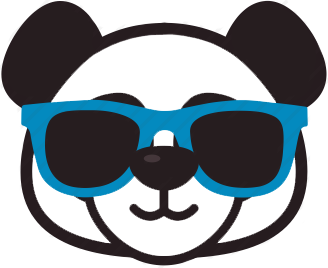
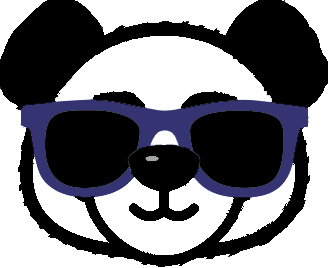
panda dark

diff --git a/styles/Home.module.css b/styles/Home.module.css
@@ -361,6 +361,7 @@
     margin-top: 18px;
     margin-bottom: 18px;
     font-size: 1.5rem;
+    margin-left: 15px;
   }
 
   .subtitle {
@@ -371,7 +372,6 @@
     margin-bottom: 18px;
   }
   
-
   .headerLeft {
     width: 100%;
     position: relative;
@@ -393,12 +393,6 @@
     padding-right: 0px;
   }
 
-  /* .searchInput {
-    width: 100%;
-    max-width: 100%;
-    margin: 0;
-    margin-bottom: 20px;
-  } */
   .addLabel {
     text-align: right;
   }
@@ -443,11 +437,6 @@
     padding-top: 0;
   }
 
-  /* .searchInputContiner {
-    display:flex;
-    justify-content: center;
-    align-items: center;
-  } */
   .searchLabel {
     margin-left: 0px;
     font-size: 4vw;

diff --git a/pages/index.js b/pages/index.js
@@ -168,7 +168,7 @@ export default function Home() {
           </div>
 
           <div className={styles.logo}>
-            <Image src={'/panda.png'} width={60} height={45} />
+            {theme && theme === "light" ? <Image src={'/panda.png'} width={45} height={35} /> : <Image src={'/pandaDark.png'} width={45} height={35} />}
             <h1 className={styles.title}>VUTTR</h1>
           </div>
 

diff --git a/components/Modal/Modal.module.css b/components/Modal/Modal.module.css
@@ -291,11 +291,16 @@
   .modalBody {
     width: 90vw;
   }
+  
   .modalContent {
     padding: 0;
   }
   .modalFooter {
     margin-top: 30px;
+  }
+  .modalLabel {
+    margin-bottom: 8px;
+  margin-top: 20px;
   }
   .modalInput,
   .modalInputTextArea {
